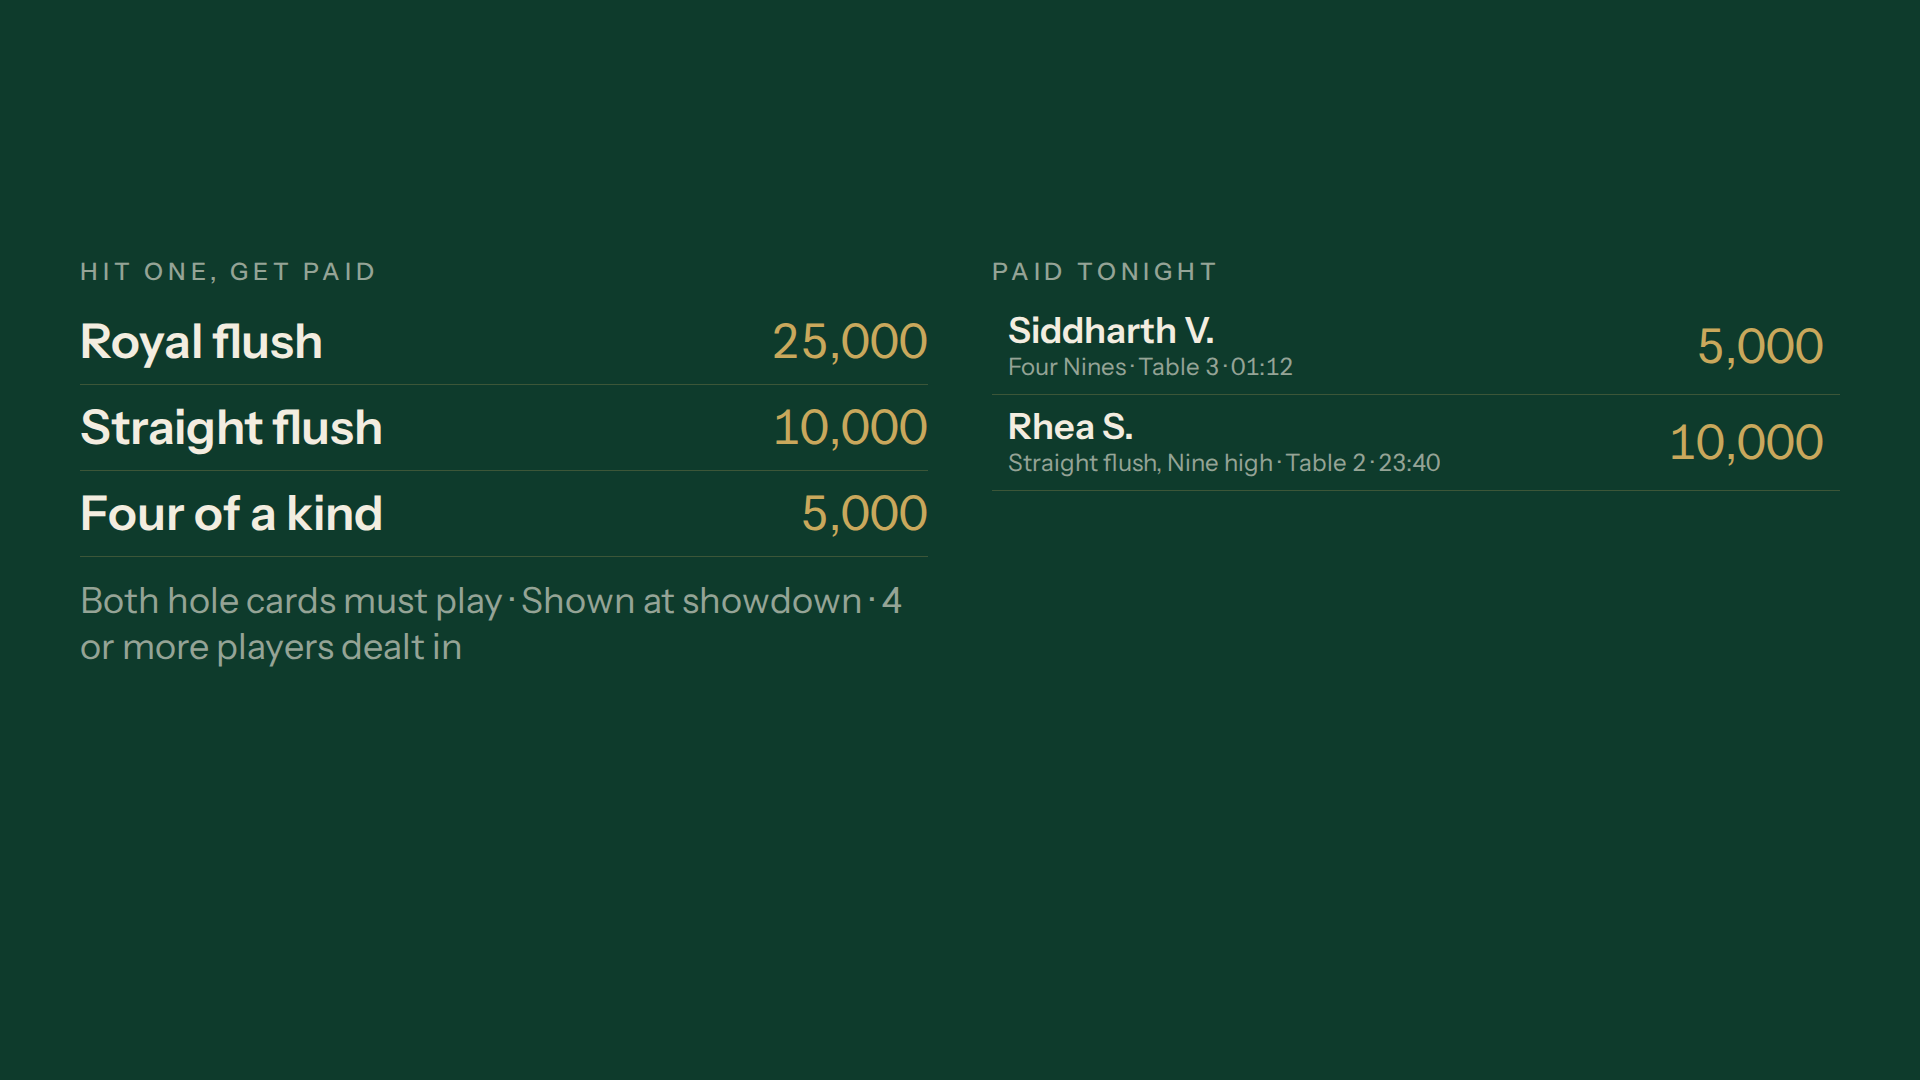
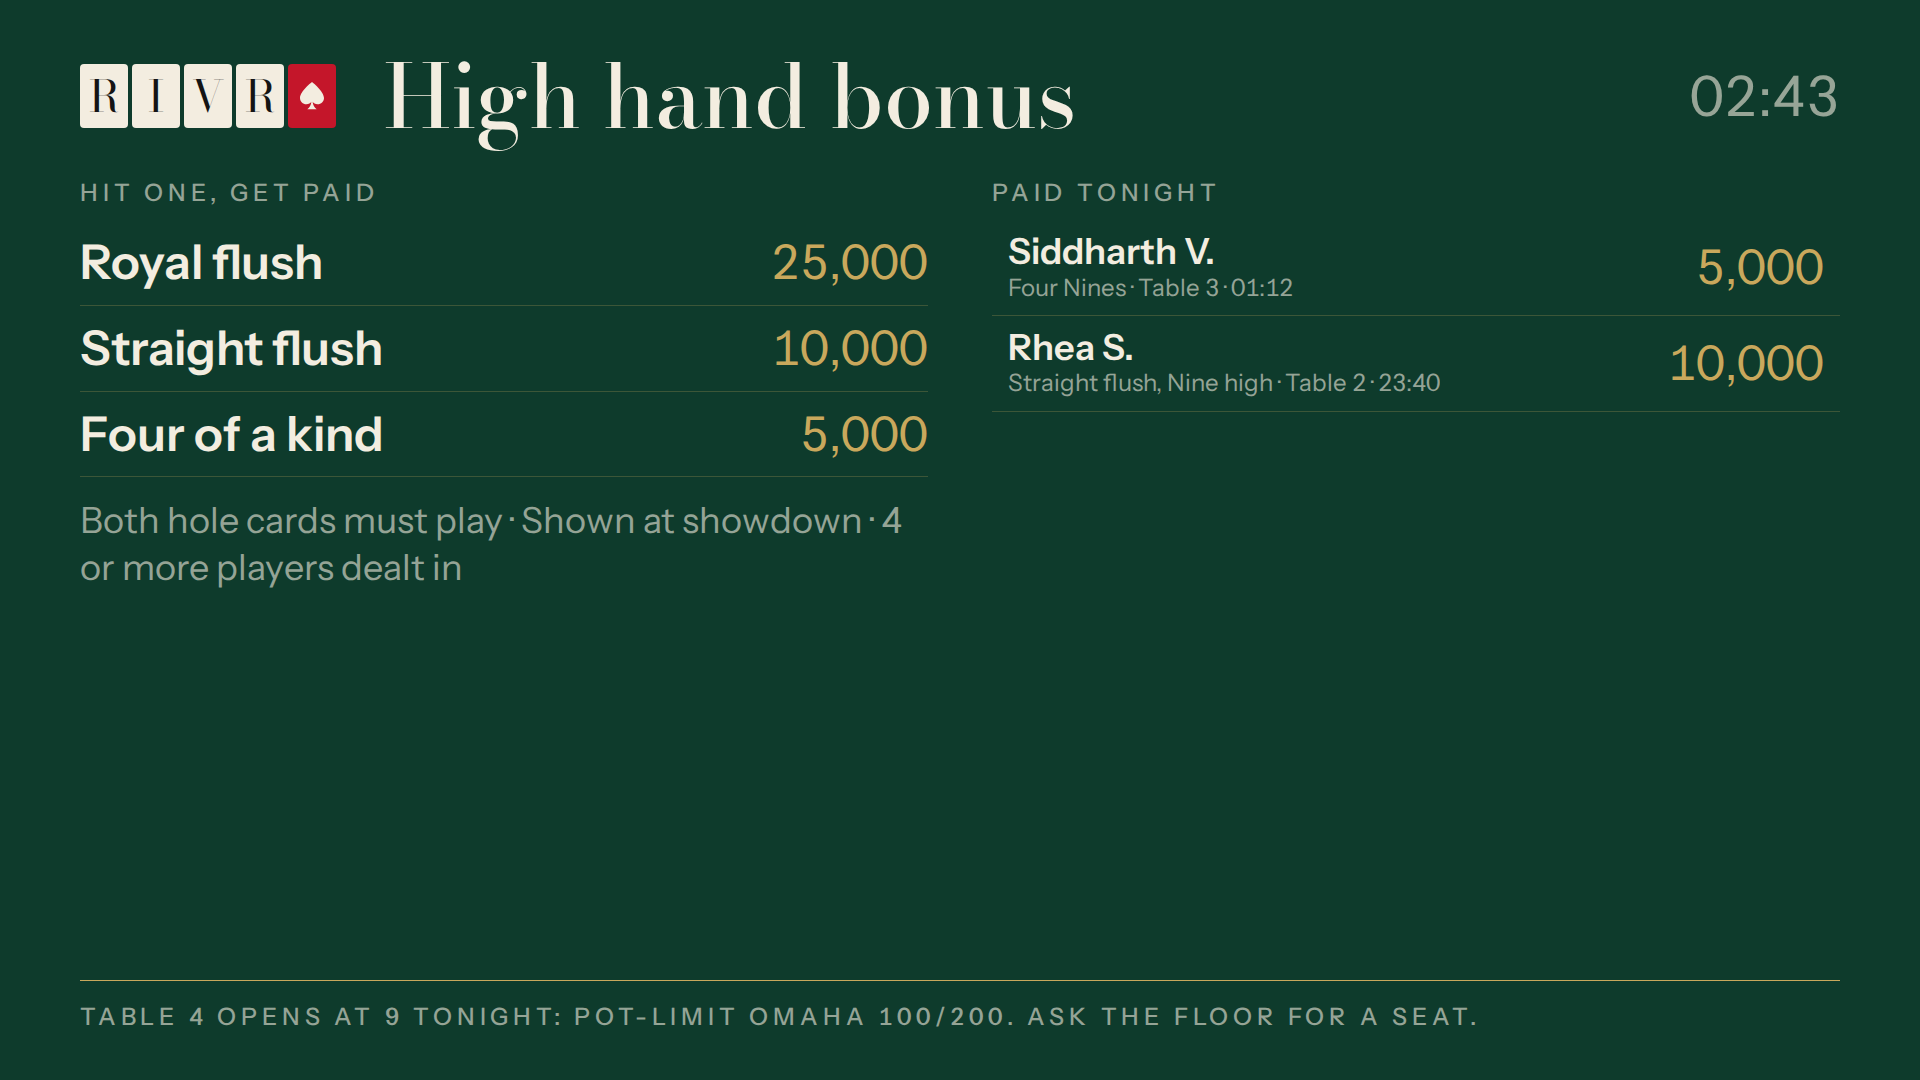
feat(tv): the high hand board on the stage
Joins the high hand bonus (#968) to the five TV boards (#971).

- HighHandMode reads useTvHighHand and stands TvHighHandBoard in TvStage;
  with no high hand running it passes its turn on, and alone it says so.
- tv_high_hand is allowed by private.tv_showing('high_hand'), as the other
  boards' reads are: to a TV that shows the board, while the venue has not
  switched it off (migration 20261120400000).
- One tv.highHand block of words; the board's story stands on the stage.
- The TV boards flow puts a high hand live, shows its board and a hit
  logged from the Live floor arriving on it.

diff --git a/e2e/flows/tv-boards.spec.ts b/e2e/flows/tv-boards.spec.ts
@@ -15,13 +15,16 @@
  *   Pooja types the seconds on each board; given the high hand bonus and the promotions to turn to in between, the TV
  *   passes over the high hand bonus, which has nothing to show, shows a promotion slide, then Seats opening again; with
  *   the promotions switched off under Boards shown it stays on Seats opening, and they are switched on again. Nakul is from the
- *   seed's hundred more members, whom no other flow seats; Pooja, an admin, lets him leave early, and he leaves.
+ *   seed's hundred more members, whom no other flow seats; Pooja, an admin, lets him leave early, and he leaves;
+ * - with a high hand running and its board as the TV's own (redesign RD-25), the TV shows the hands with their Bonus and
+ *   the rules, and the four Jacks Pooja logs for Nakul from the Live floor are on it within seconds, through Realtime.
  * Both leave the list and the TV is unpaired at the end.
  */
 import { expect, test, type Locator, type Page } from '@playwright/test';
 import { appUrl, isRemoteTarget, VIEWPORT } from '../support/apps.ts';
 import { letGoEarly, requestsPanel, seatOnFloor, showSeats, tableTile } from '../support/floor.ts';
 import { openConsole } from '../support/console.ts';
+import { endHighHands, liveHighHand, shoot } from '../support/highHand.ts';
 import { signInToConsole, signInToPlayer } from '../support/signIn.ts';
 
 const PLAYER = 'Vihaan Kapoor';
@@ -123,10 +126,39 @@ async function seatNakul(floor: Page) {
   await expect(seated).toBeVisible();
 }
 
+/**
+ * The High hand bonus board as the TV's own (redesign RD-25): with a high hand running it shows the hands with their Bonus
+ * and the rules; the hit Pooja logs for Nakul from the Live floor's strip is on it within seconds, through Realtime.
+ */
+async function highHandOnItsBoard(tv: Page, floor: Page, name: string) {
+  liveHighHand(`High hand bonus ${String(Date.now() % 100_000)}`);
+  await floor.getByRole('radiogroup', { name: `What ${name} shows`, exact: true }).getByRole('radio', { name: 'High hand bonus', exact: true }).click();
+  await expect(tv.getByRole('heading', { level: 1, name: 'High hand bonus' })).toBeVisible({ timeout: 40_000 });
+  const hands = tv.getByRole('region', { name: 'Hit one, get paid' });
+  await expect(hands.getByRole('listitem').filter({ hasText: 'Royal flush' })).toContainText('25,000');
+  await expect(hands.getByText('Both hole cards must play · Shown at showdown · 4 or more players dealt in')).toBeVisible();
+  await floor.getByRole('link', { name: 'Live floor' }).click();
+  await floor.getByRole('region', { name: 'High hand bonus' }).getByRole('button', { name: 'Log a high hand' }).click();
+  const panel = floor.getByRole('dialog', { name: 'Log a high hand' });
+  await panel.getByRole('radio', { name: 'Private Room' }).click();
+  await panel.getByRole('radio', { name: LEAVING }).click();
+  await panel.getByRole('radio', { name: 'Four of a kind · 5,000' }).click();
+  await panel.getByRole('radiogroup', { name: 'Four of' }).getByRole('radio', { name: 'Jacks' }).click();
+  for (const rule of ['Both hole cards played', 'Shown at showdown', '4 or more players dealt in']) await panel.getByRole('switch', { name: rule }).click();
+  await panel.getByRole('button', { name: 'Pay 5,000 Bonus' }).click();
+  const paid = tv.getByRole('region', { name: 'Paid tonight' }).getByRole('listitem').filter({ hasText: 'Nakul D.' });
+  await expect(paid).toContainText(/Four Jacks · Private Room · \d\d:\d\d/, { timeout: 40_000 });
+  await expect(paid).toContainText('5,000');
+  await shoot(tv, 'tv-high-hand-board-on-the-stage-1920');
+  endHighHands();
+}
+
 test.describe('TV boards', () => {
   test('TV boards: the waitlist a list a table, a hidden name as its place, live as the floor adds players, and no rupee', async ({ browser }) => {
     test.skip(isRemoteTarget(), 'makes a device login and changes the waitlist, so the local stack only');
-    test.setTimeout(240_000);
+    test.setTimeout(330_000);
+    // No high hand a cut-off run left running: the rotation below passes over a board with nothing to show.
+    endHighHands();
     const name = `TV ${String(Date.now() % 100_000).padStart(5, '0')}`;
     const member = await browser.newPage();
     await signInToPlayer(member, '9000000216');
@@ -216,6 +248,8 @@ test.describe('TV boards', () => {
     await expect(tv.getByText('Offer', { exact: true })).toHaveCount(0);
     await expect(tv.getByRole('heading', { level: 1, name: 'Seats opening' })).toBeVisible();
     await saveRotation(floor, 'Boards shown', async (panel) => panel.getByRole('switch', { name: 'Promotions' }).click());
+
+    await highHandOnItsBoard(tv, floor, name);
 
     // Pooja, an admin, lets Nakul go before his call time, and he leaves.
     await floor.getByRole('link', { name: 'Live floor' }).click();

diff --git a/packages/ui/src/TvHighHandBoard/TvHighHandBoard.stories.tsx b/packages/ui/src/TvHighHandBoard/TvHighHandBoard.stories.tsx
@@ -1,4 +1,6 @@
 import type { Meta, StoryObj } from '@storybook/react-vite';
+import { DisplayShell } from '../DisplayShell/DisplayShell.tsx';
+import { TvStage } from '../TvStage/TvStage.tsx';
 import { TvHighHandBoard } from './TvHighHandBoard.tsx';
 
 const HANDS = [
@@ -11,16 +13,19 @@ const PAID = [
   { id: 'h1', name: 'Rhea S.', detail: 'Straight flush, Nine high · Table 2 · 23:40', bonus: '10,000' },
 ];
 
-// The board is the stage's body: the stage draws the title, the clock and the notice line. Each story sits in a plain box
-// of the body's size on the TV's background, as it will sit in the stage: on the 1920 by 1080 screen, the stage's 80 px
-// at each side leave 1760, and 256 above (its header) with 84 below (its foot) leave 740, a pixel more than the body's
-// 739; the spacing scale stops at 128, so two boxes make the 256. It has no loading or error state of its own: the TV app shows those in the board's place.
+// The board is the stage's body: the stage draws the title, the clock and the notice line, and the TV app stands the
+// board in it (HighHandMode). Each story shows it so. It has no loading or error state of its own: the TV app shows
+// those in the board's place.
 const meta = {
   title: 'TV/TvHighHandBoard',
   component: TvHighHandBoard,
   tags: ['viewport-tv'],
   parameters: { layout: 'fullscreen' },
-  decorators: [(Story) => <div className="h-dvh w-full bg-surface px-20 pt-32 pb-20"><div className="h-full pt-32 pb-1"><Story /></div></div>],
+  decorators: [(Story) => (
+    <DisplayShell clockAt={new Date('2026-11-15T21:13:00Z')} notice="Table 4 opens at 9 tonight: Pot-Limit Omaha 100/200. Ask the floor for a seat.">
+      <TvStage title="High hand bonus"><Story /></TvStage>
+    </DisplayShell>
+  )],
   args: {
     handsTitle: 'Hit one, get paid', hands: HANDS, rules: 'Both hole cards must play · Shown at showdown · 4 or more players dealt in',
     payoutsTitle: 'Paid tonight', payouts: PAID, emptyText: 'None yet tonight.',

diff --git a/apps/display/src/features/modes/components/HighHandMode.tsx b/apps/display/src/features/modes/components/HighHandMode.tsx
@@ -1,18 +1,24 @@
+import { useTvHighHand } from '@rivr/db';
 import { t } from '@rivr/i18n';
-import { Text, TvStage } from '@rivr/ui';
+import { Text, TvHighHandBoard, TvStage } from '@rivr/ui';
+import { BoardStatus } from './BoardStatus.tsx';
+import { toHighHandBoard } from './highHandBoard.ts';
 import { useSkipWhenEmpty } from './useSkipWhenEmpty.ts';
 
 /**
- * The High hand bonus board (redesign RD-28, render tv-boards-05). The board itself, the hands that pay and tonight's
- * payouts, comes with the high hand bonus (#968) and is joined here: its component stands on TvStage with this title,
- * and its read says when there is nothing to show. Until then the board has nothing to show: in a rotation it passes its
- * turn on, and alone it says so.
+ * The High hand bonus board (redesign RD-28 and RD-25, render tv-boards-05): on the stage, the hands that pay with their
+ * Bonus, the rules, and tonight's payouts, read again when one is paid and every half minute. With no high hand running,
+ * or one not shown on the TVs, the board has nothing to show: in a rotation it passes its turn on, and alone it says so.
  */
 export function HighHandMode({ onEmpty }: { onEmpty?: (() => void) | undefined }) {
-  useSkipWhenEmpty(true, onEmpty);
+  const board = useTvHighHand();
+  useSkipWhenEmpty(board.data === null, onEmpty);
+  if (board.data === undefined) return <BoardStatus isError={board.isError} />;
   return (
     <TvStage title={t('tv.highHand.title')}>
-      <Text variant="tvBody" tone="muted">{t('tv.highHand.empty')}</Text>
+      {board.data === null
+        ? <Text variant="tvBody" tone="muted">{t('tv.highHand.empty')}</Text>
+        : <TvHighHandBoard {...toHighHandBoard(board.data, new Date(board.dataUpdatedAt))} />}
     </TvStage>
   );
 }

diff --git a/packages/i18n/src/catalogue/en/tv.ts b/packages/i18n/src/catalogue/en/tv.ts
@@ -33,14 +33,6 @@ export const tv = {
     /** A member who hid their name on the TVs, by their member number (the owner, 12 Nov). */
     member: 'Member #{number}',
   },
-  /** The High hand bonus board's body (redesign RD-25): the hands, and tonight's payouts. `{hand}` is the hit named exactly. */
-  highHand: {
-    hands: 'Hit one, get paid',
-    paidTonight: 'Paid tonight',
-    noneYet: 'None yet tonight.',
-    /** Under a player's name: `Four Jacks · Table 2 · 02:43`. */
-    payout: '{hand} · {table} · {time}',
-  },
   /** The call-time board (decision 0163), titled Seats opening on the TV (owner, 15 Nov): every seat on call time in one list, soonest first. */
   callTime: {
     title: 'Seats opening',
@@ -56,6 +48,12 @@ export const tv = {
   highHand: {
     title: 'High hand bonus',
     empty: 'No high hand bonus running.',
+    /** The board's body (redesign RD-25): over the hands, over tonight's payouts, and with none paid yet. */
+    hands: 'Hit one, get paid',
+    paidTonight: 'Paid tonight',
+    noneYet: 'None yet tonight.',
+    /** Under a player's name: `Four Jacks · Table 2 · 02:43`. `{hand}` is the hit named exactly. */
+    payout: '{hand} · {table} · {time}',
   },
   /** A promotion slide in the TV's rotation (#64). */
   promotion: {

diff --git a/apps/display/src/features/modes/components/highHandBoard.ts b/apps/display/src/features/modes/components/highHandBoard.ts
@@ -12,7 +12,7 @@ function nameOf(payout: TvHighHandPayout): string {
 }
 
 /**
- * The High hand bonus board's body from what the TV read (redesign RD-25): each hand with its Bonus, the rules on a line,
+ * The High hand bonus board's body from what the TV read (redesign RD-25), for HighHandMode: each hand with its Bonus, the rules on a line,
  * and tonight's payouts, the newest lit while it is under five minutes old at `now`.
  */
 export function toHighHandBoard(board: TvHighHand, now: Date): TvHighHandBoardProps {
